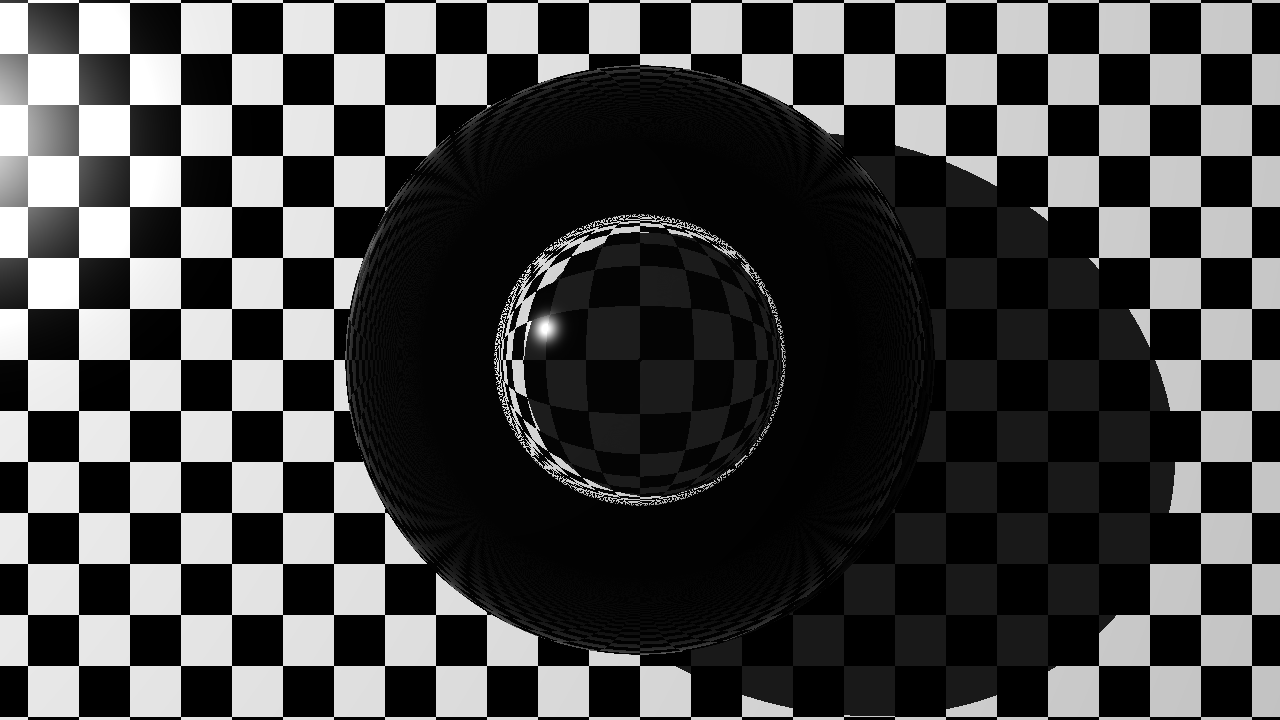
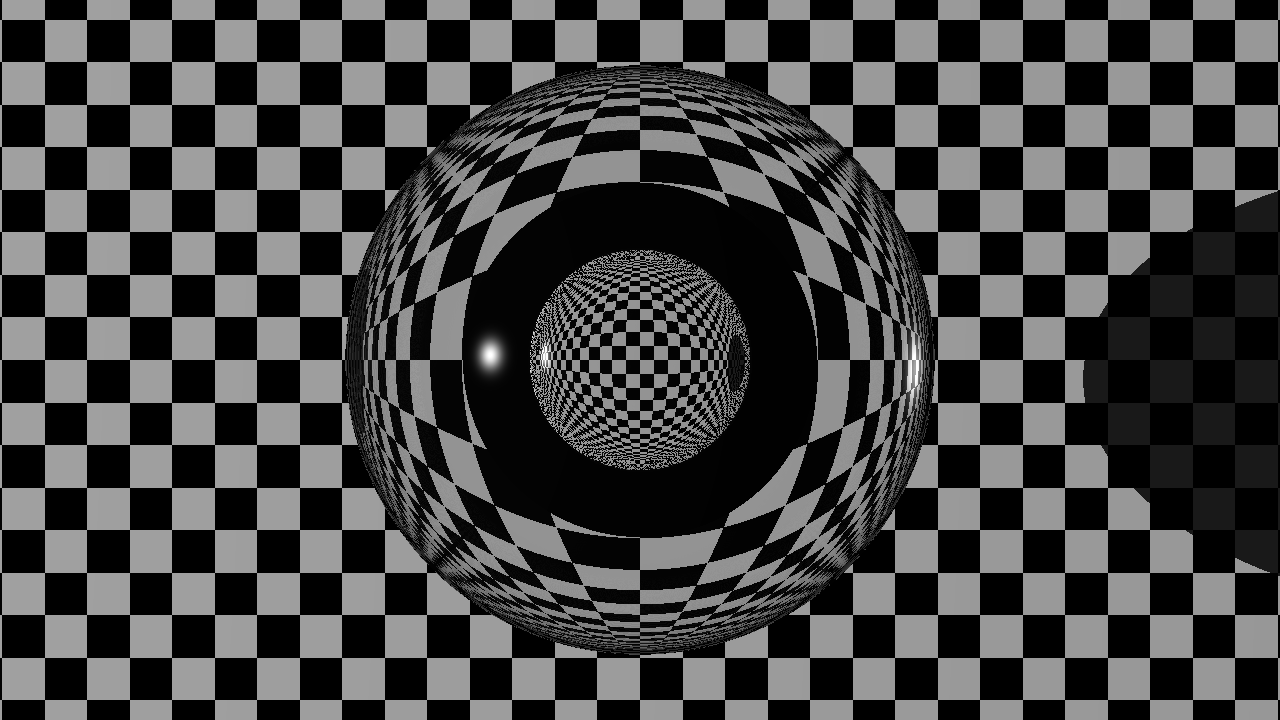
Chapter 11. Reflections and Refractions - refraction - total internal reflection still causing issues in glass sphere with air test

diff --git a/ray_tracer/src/lighting/refraction_lighting.rs b/ray_tracer/src/lighting/refraction_lighting.rs
@@ -232,15 +232,34 @@ mod schlick_tests {
     }
 }
 
+impl RefractionMediumIndexes {
+    pub(crate) fn sin2_t(&self, pre_calculations: &PreCalculations) -> f32 {
+        let n_ratio = self.n1 / self.n2;
+
+        let cos_i = pre_calculations.eye.dot(&pre_calculations.normal);
+
+        let sin2_t = n_ratio * n_ratio * (1. - cos_i * cos_i);
+
+        sin2_t
+    }
+}
+
 pub fn schlick(
     pre_calculations: &PreCalculations,
     refraction_medium_indexes: &RefractionMediumIndexes,
 ) -> f32 {
+    let sin2_t = refraction_medium_indexes.sin2_t(pre_calculations);
+
+    if sin2_t > 1. {
+        return 1.;
+    }
+
     let mut cos = pre_calculations.eye.dot(&pre_calculations.normal);
     if refraction_medium_indexes.n1 > refraction_medium_indexes.n2 {
         let n = refraction_medium_indexes.n1 / refraction_medium_indexes.n2;
         let sin2_t = n * n * (1.0 - cos * cos);
         if sin2_t > 1. {
+            // Total internal reflection
             return 1.;
         }
 

diff --git a/demo/src/test_scenes/glass_sphere_with_air.rs b/demo/src/test_scenes/glass_sphere_with_air.rs
@@ -22,8 +22,8 @@ impl TestScene for GlassSphereWithAir {
 
     fn build_world() -> World {
         let mut world = World::default();
-        world.add_light(PointLight::new(point!(-30, 50, 10), *WHITE));
-        let mut plane = Shape::new_plane();
+        world.add_light(PointLight::new(point!(-300, 200, 10), *WHITE));
+        let mut plane = Shape::new_plane_transformed(Matrix4x4::translation(0., -8., 0.));
         plane.material.pattern = Pattern::Checker(*BLACK, *WHITE, Transform::identity());
         world.add(plane);
 
@@ -33,7 +33,7 @@ impl TestScene for GlassSphereWithAir {
         world.add(sphere);
 
         let mut bubble =
-            Shape::new_sphere_transformed(Matrix4x4::scale_all(2.).pre_translation(0., 1., 0.));
+            Shape::new_sphere_transformed(Matrix4x4::scale_all(1.5).pre_translation(0., 1., 0.));
         bubble.material = Material::air();
         world.add(bubble);
 

diff --git a/ray_tracer/src/material/refraction.rs b/ray_tracer/src/material/refraction.rs
@@ -37,7 +37,7 @@ impl<'s, T: Eq + Hash> RefractionStack<'s, T> {
                 .entered
                 .iter()
                 .enumerate()
-                .find(|(_, (k, _))| k == &key)
+                .find(|(_, (k, _))| *k == key)
                 .unwrap();
             self.entered.remove(i);
         } else {
